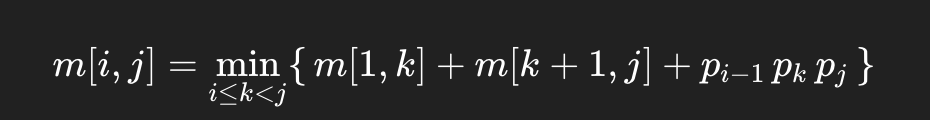
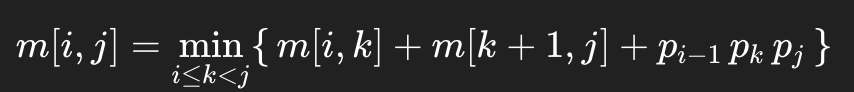
better

diff --git a/Notes/14-DynamicProgramming/03-matrix-chain-multiplication.md b/Notes/14-DynamicProgramming/03-matrix-chain-multiplication.md
@@ -12,7 +12,7 @@
 ## Slides: Matrix Chain Multiplication – Cost Calculation
 
 <p align="center">
-  <img src="https://github.com/thespcrewroy/CSCI4470-Algorithms/blob/main/Notes/assets/costanalysis.png" alt="Fractional Knapsack Problem Example" width="800" />
+  <img src="https://github.com/thespcrewroy/CSCI4470-Algorithms/blob/main/Notes/assets/costanalysis.png" alt="Cost Analysis Example" width="800" />
 </p>
 
 
@@ -89,11 +89,11 @@ Step 2: Multiply A1 × (A2A3)
 ## Notes: Dynamic Programming Recursive Solution
 
 <p align="center">
-  <img src="https://github.com/thespcrewroy/CSCI4470-Algorithms/blob/main/Notes/assets/matrixchaintheory.png" alt="Fractional Knapsack Problem Example" width="800" />
+  <img src="https://github.com/thespcrewroy/CSCI4470-Algorithms/blob/main/Notes/assets/matrixchaintheory.png" alt="Matrix Chain Theory" width="800" />
 </p>
 
 <p align="center">
-  <img src="https://github.com/thespcrewroy/CSCI4470-Algorithms/blob/main/Notes/assets/recursivematrixchain.png" alt="Fractional Knapsack Problem Example" width="800" />
+  <img src="https://github.com/thespcrewroy/CSCI4470-Algorithms/blob/main/Notes/assets/recursivematrixchain.png" alt="Recursive Formula" width="800" />
 </p>
 
 | Term | Meaning |
@@ -147,92 +147,59 @@ Goal:
 
 ## Base Case A<sub>i</sub>
 
-- i = 1; k = 1; j = 1
-    - m[1,1] = 0  
-- i = 2; k = 2; j = 2
-    - m[2,2] = 0  
-- i = 3; k = 3; j = 3
-    - m[3,3] = 0  
-- i = 4; k = 4; j = 4
-    - m[4,4] = 0  
-
-
+- m[1,1] = **0**
+- m[2,2] = **0**  
+- m[3,3] = **0**  
+- m[4,4] = **0**  
+    
 ## Compute A<sub>i</sub>A<sub>i+1</sub>
 
-- m[1,2] = 216; s[1,2] = 1
-    - i = 1; k = 1; j = 2 => (p<sub>0</sub>)(p<sub>1</sub>)(<sub>2</sub>) = (3)(9)(8) = 216
+- m[1,2] = **216**; s[1,2] = **1**
+    - i = 1; k = 1; j = 2 => min[1,1] + min[2,2] + (p<sub>0</sub>)(p<sub>1</sub>)(<sub>2</sub>) = 0 + 0 + (3)(9)(8) = 216
         - s[1,2] = 1
 
-- m[2,3] = 144; s[2,3] = 2
-    -  i = 2; k = 2; j = 3 => (p<sub>1</sub>)(p<sub>2</sub>)(p<sub>3</sub>)(9)(8)(2) = 144  
+- m[2,3] = **144**; s[2,3] = **2**
+    -  i = 2; k = 2; j = 3 => min[2,2] + min[3,3] + (p<sub>1</sub>)(p<sub>2</sub>)(p<sub>3</sub>) = 0 + 0 + (9)(8)(2) = 144  
         - s[2,3] = 2  
 
-- m[2,4] = 80; s[3,4] = 3
-    - i = 3; k = 3; j = 4 => (p<sub>2</sub>)(p<sub>3</sub>)(p<sub>4</sub>) = (8)(2)(5) = 80  
+- m[3,4] = **80**; s[3,4] = **3**
+    - i = 3; k = 3; j = 4 => min[3,3] + m[4,4] + (p<sub>2</sub>)(p<sub>3</sub>)(p<sub>4</sub>) = 0 + 0 + (8)(2)(5) = 80  
         - s[3,4] = 3  
 
----
 
 ## Compute A<sub>i</sub>A<sub>i+1</sub>A<sub>i+2</sub>
 
+- m[1,3] = min(198, 264) = **198**; s[1,3] = **1**
+    - i = 1; k = 1; j = 3 => m[1,1] + m[2,3] + (p<sub>0</sub>)(p<sub>1</sub>)(p<sub>3</sub>) = 0 + 144 + (3)(9)(2) = 198
+        - s[1,3] = 1
+    - i = 1; k = 2; j = 3 => m[1,2] + m[3,3] + (p<sub>0</sub>)(p<sub>2</sub>)(p<sub>3</sub>) = 216 + 0 + (3)(8)(2) = 264
+        - s[2,3] = 2
+- m[2,4] = min(440, 234) = **234**; s[2,4] = **3**
+    - i = 2; k = 2; j = 4 => m[2,2] + m[3,4] + (p<sub>1</sub>)(p<sub>2</sub>)(p<sub>4</sub>) = 0 + 80 + (9)(8)(5) = 440
+        - s[2,4] = 2
+    - i = 2; k = 3; j = 4 => m[2,3] + m[4,4] + (p<sub>1</sub>)(p<sub>3</sub>)(p<sub>4</sub>) = 144 + 0 + (9)(2)(5) = 234
+        - s[3,4] = 3
 
-- i = 1; k = 1; j = 2
-  = m[1,1] + m[2,3] + (3)(9)(2)  
-  = 0 + 144 + 54 = 198  
+## A<sub>i</sub>A<sub>i+1</sub>A<sub>i+2</sub>A<sub>i+3</sub>
 
-- k = 2  
-  = m[1,2] + m[3,3] + (3)(8)(2)  
-  = 216 + 0 + 48 = 264  
-
-→ m[1,3] = min(198, 264) = **198**  
-→ s[1,3] = 1  
-
----
-
-### m[2,4]
-
-- k = 2  
-  = m[2,2] + m[3,4] + (9)(8)(5)  
-  = 0 + 80 + 360 = 440  
-
-- k = 3  
-  = m[2,3] + m[4,4] + (9)(2)(5)  
-  = 144 + 0 + 90 = 234  
-
-→ m[2,4] = min(440, 234) = **234**  
-→ s[2,4] = 3  
-
----
-
-## Step 4: Chains of Length 4 (Full Chain)
-
-### m[1,4]
-
-Try all k:
-
-- k = 1  
-  = m[1,1] + m[2,4] + (3)(9)(5)  
-  = 0 + 234 + 135 = 369  
-
-- k = 2  
-  = m[1,2] + m[3,4] + (3)(8)(5)  
-  = 216 + 80 + 120 = 416  
-
-- k = 3  
-  = m[1,3] + m[4,4] + (3)(2)(5)  
-  = 198 + 0 + 30 = 228  
-
-→ m[1,4] = min(369, 416, 228) = **228**  
-→ s[1,4] = 3  
-
----
+- m[1,4] = min(369, 416, 228) = **228**; s[1,4] = **3**
+    - i = 1; k = 1; j = 4 = m[1,1] + m[2,4] + (p<sub>0</sub>)(p<sub>1</sub>)(p<sub>4</sub>) = 0 + 234 + (3)(9)(5) = 369
+        - s[1, 4] = 1
+    - i = 1; k = 2; j = 4 = m[1,2] + m[3,4] + (p<sub>0</sub>)(p<sub>2</sub>)(p<sub>4</sub>) = 216 + 80 + (3)(8)(5) = 416
+        - s[2, 4] = 2
+    - i = 1; k = 3; j = 4 = m[1,3] + m[4,4] + (p<sub>0</sub>)(p<sub>3</sub>)(p<sub>4</sub>) = 198 + 0 + (3)(2)(5) = 228
+        - s[3,4] = 3
 
 ## Final Answer
 
-Optimal cost:
-→ **m[1,4] = 228**
+| i \ j | 1   | 2   | 3   | 4   |
+|------|-----|-----|-----|-----|
+| 1    | 0   | 216 | 198 | 228 |
+| 2    |     | 0   | 144 | 234 |
+| 3    |     |     | 0   | 80  |
+| 4    |     |     |     | 0   |
 
-Optimal split:
-→ k = 3
+**Optimal Cost: 228**
+
 
 ---
